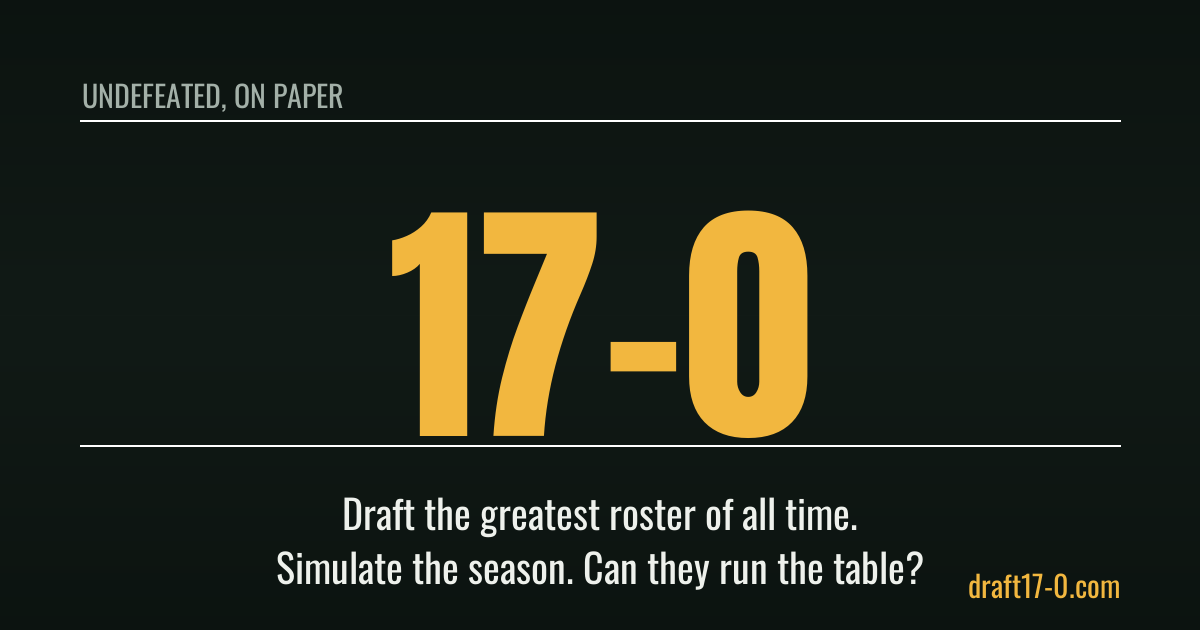
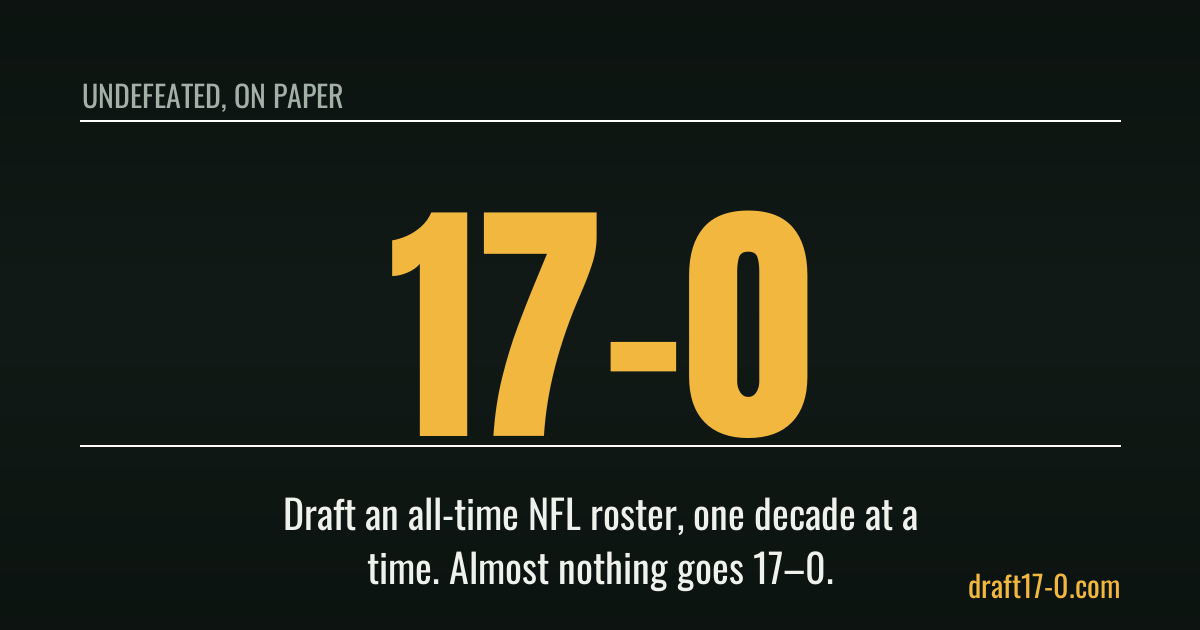
Swap in sharper meta description and matching OG image copy
Replaced the generic "simulate whether it can run the table" line with
"Draft an all-time NFL roster, one decade at a time. Then find out if
it can go 17–0. Almost nothing does." across the meta/og/twitter
description tags, and updated the OG preview image's tagline to match
(shortened slightly there since a share-preview image needs to be
scannable at a glance, not read closely).

Changed region(s): [[0.2158, 0.8746, 0.7708, 0.9349], [0.2158, 0.7841, 0.7708, 0.8444]]

diff --git a/index.html b/index.html
@@ -4,20 +4,20 @@
     <meta charset="UTF-8" />
     <meta name="viewport" content="width=device-width, initial-scale=1.0" />
     <title>17–0</title>
-    <meta name="description" content="Draft an all-time NFL roster and simulate whether it can run the table." />
+    <meta name="description" content="Draft an all-time NFL roster, one decade at a time. Then find out if it can go 17–0. Almost nothing does." />
     <link rel="icon" type="image/svg+xml" href="/favicon.svg" />
 
     <meta property="og:type" content="website" />
     <meta property="og:url" content="https://www.draft17-0.com/" />
     <meta property="og:title" content="17–0" />
-    <meta property="og:description" content="Draft an all-time NFL roster and simulate whether it can run the table." />
+    <meta property="og:description" content="Draft an all-time NFL roster, one decade at a time. Then find out if it can go 17–0. Almost nothing does." />
     <meta property="og:image" content="https://www.draft17-0.com/og-image.png" />
     <meta property="og:image:width" content="1200" />
     <meta property="og:image:height" content="630" />
 
     <meta name="twitter:card" content="summary_large_image" />
     <meta name="twitter:title" content="17–0" />
-    <meta name="twitter:description" content="Draft an all-time NFL roster and simulate whether it can run the table." />
+    <meta name="twitter:description" content="Draft an all-time NFL roster, one decade at a time. Then find out if it can go 17–0. Almost nothing does." />
     <meta name="twitter:image" content="https://www.draft17-0.com/og-image.png" />
 
     <link rel="preconnect" href="https://fonts.googleapis.com" />
